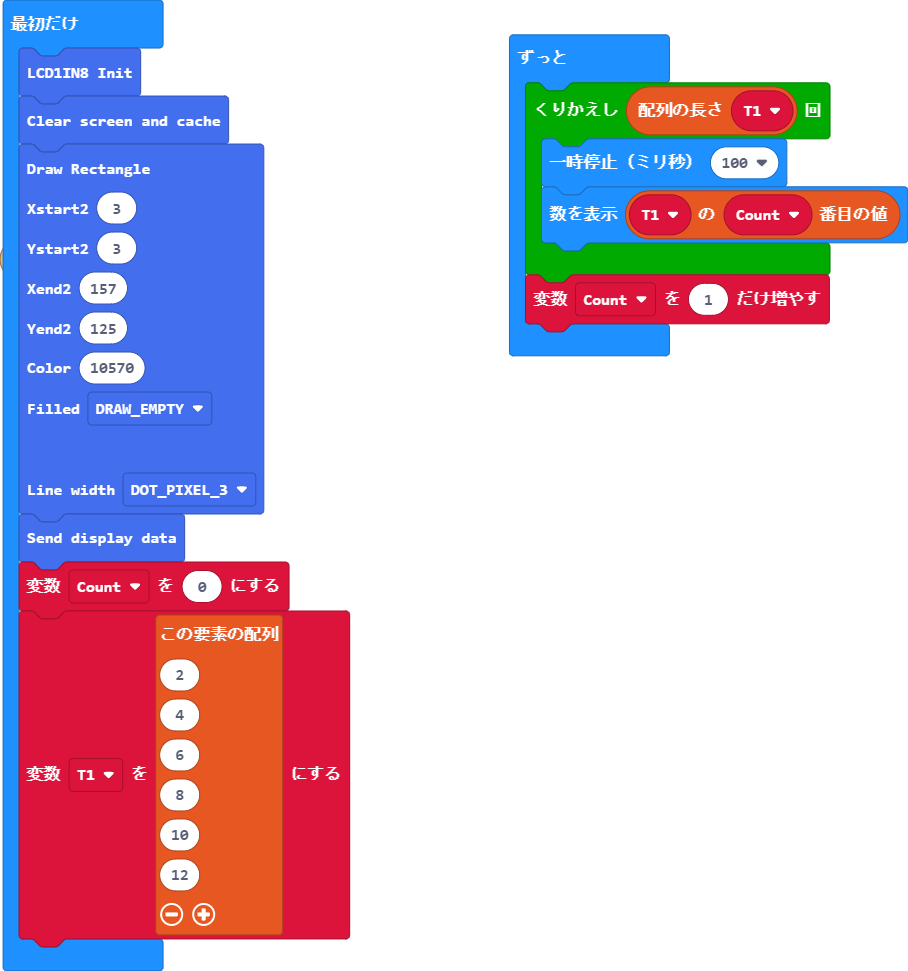
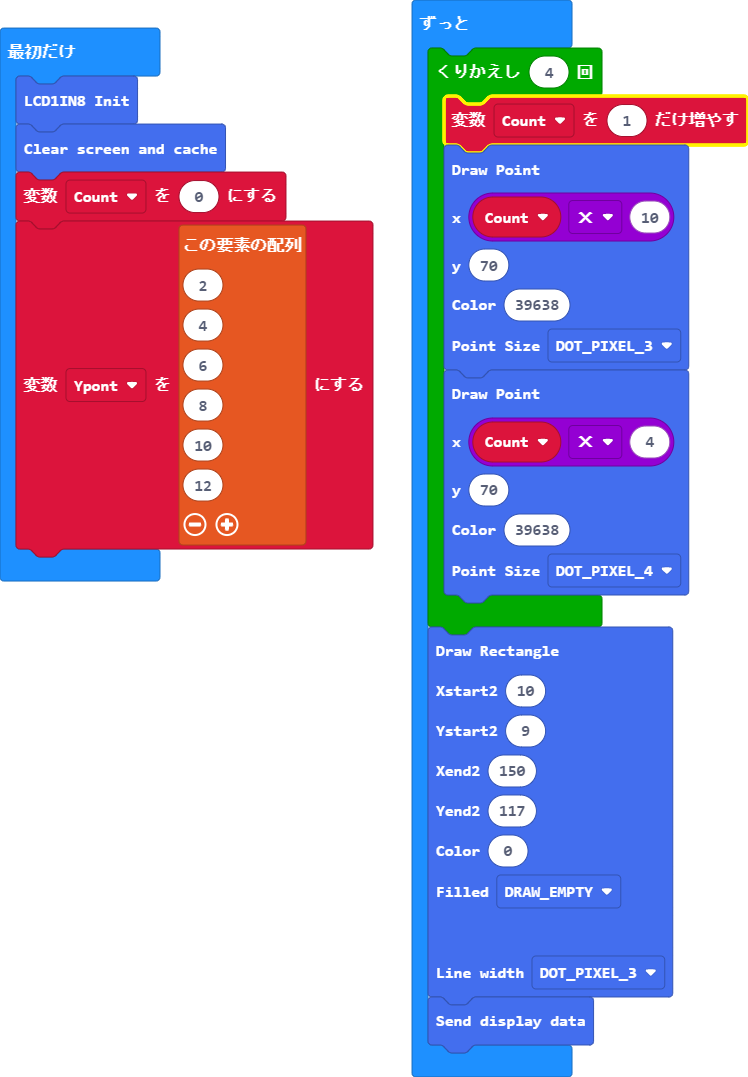
更新 main.blocks, main.ts

diff --git a/main.ts b/main.ts
@@ -1,17 +1,7 @@
 LCD1IN8.LCD_Init()
 LCD1IN8.LCD_Clear()
-LCD1IN8.DrawRectangle(
-3,
-3,
-157,
-125,
-10570,
-DRAW_FILL.DRAW_EMPTY,
-DOT_PIXEL.DOT_PIXEL_3
-)
-LCD1IN8.LCD_Display()
 let Count = 0
-let T1 = [
+let Ypont = [
 2,
 4,
 6,
@@ -20,9 +10,29 @@ let T1 = [
 12
 ]
 basic.forever(function () {
-    for (let index = 0; index < T1.length; index++) {
-        basic.pause(100)
-        basic.showNumber(T1[Count])
+    for (let index = 0; index < 4; index++) {
+        Count += 1
+        LCD1IN8.DrawPoint(
+        Count * 10,
+        70,
+        39638,
+        DOT_PIXEL.DOT_PIXEL_3
+        )
+        LCD1IN8.DrawPoint(
+        Count * 4,
+        70,
+        39638,
+        DOT_PIXEL.DOT_PIXEL_4
+        )
     }
-    Count += 1
+    LCD1IN8.DrawRectangle(
+    10,
+    9,
+    150,
+    117,
+    0,
+    DRAW_FILL.DRAW_EMPTY,
+    DOT_PIXEL.DOT_PIXEL_3
+    )
+    LCD1IN8.LCD_Display()
 })
